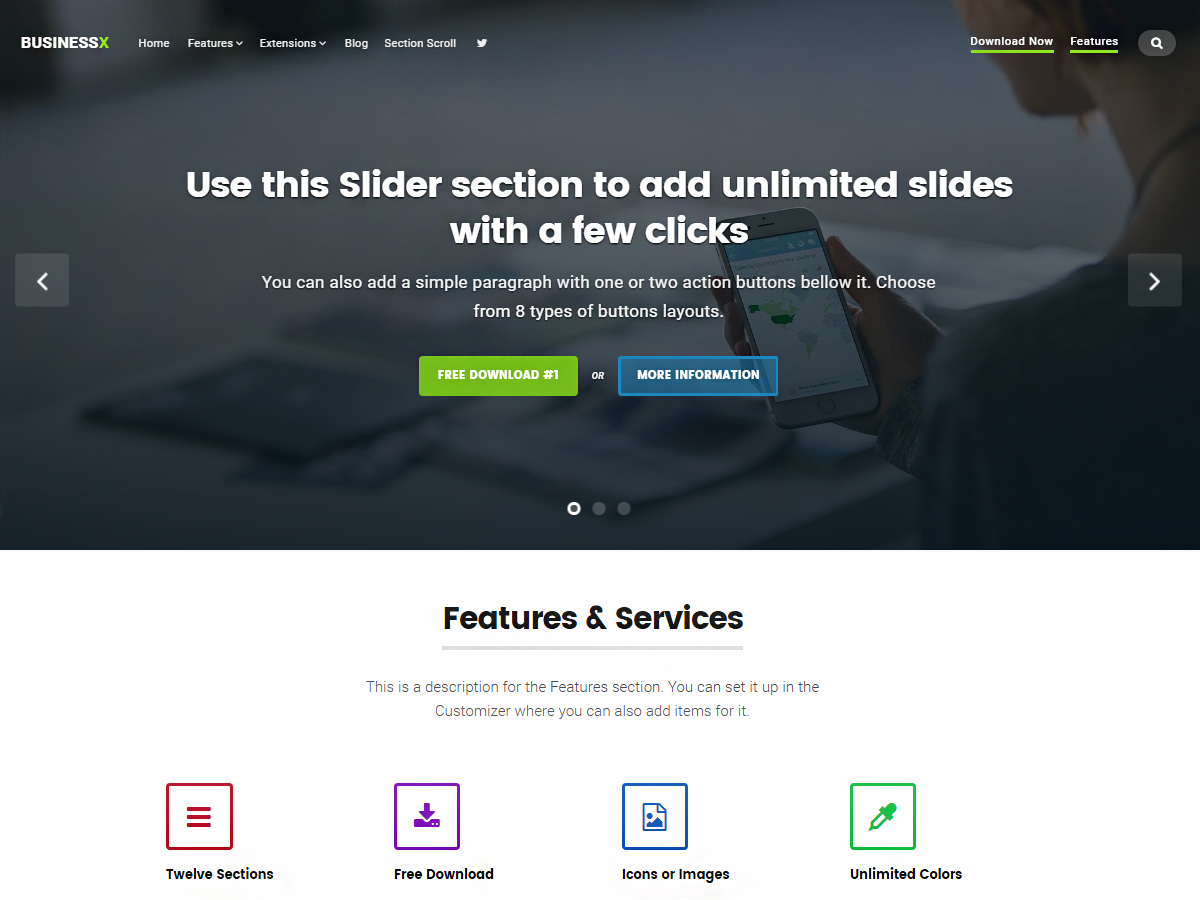
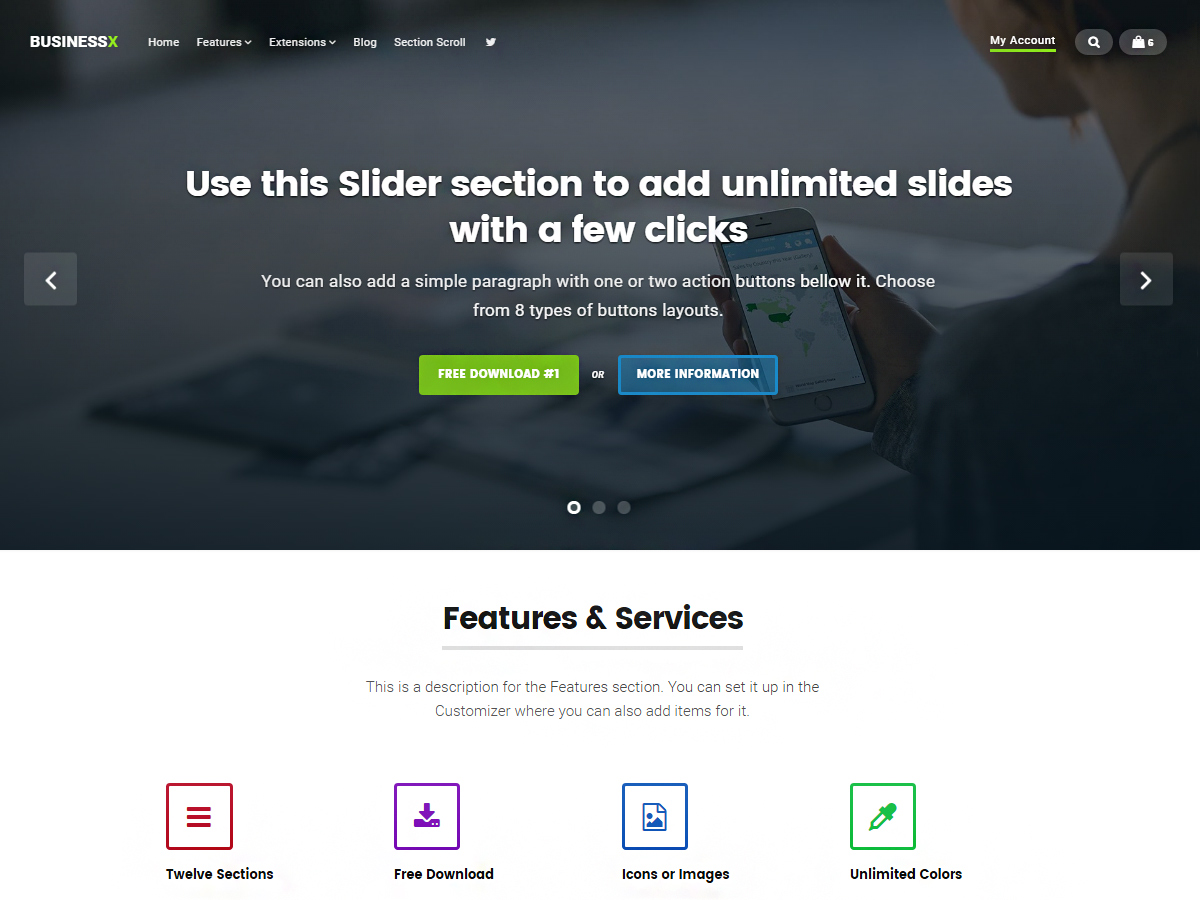
v1.0.5.2 Update
#8

diff --git a/style.css b/style.css
@@ -5,8 +5,8 @@ Theme Name: Businessx
 Theme URI: http://www.acosmin.com/theme/businessx/
 Author: Acosmin
 Author URI: http://www.acosmin.com/
-Description: Businessx is a modern one page WordPress theme, perfect for any business, agency or blog. With the help of the free Businessx Extensions plugin you will be able to add 12 sections (Slider, Features, About Us, Team, Clients, Portfolio, Actions, Testimonials, Pricing, FAQ, Hero, Blog) to your homepage and position them as you want on page. Download this plugin from: https://wordpress.org/plugins/businessx-extensions/ & Full Demo: http://demo.acosmin.com/themes/businessx/
-Version: 1.0.5.1
+Description: Businessx is a modern one page WordPress theme with WooCommerce support, perfect for any business, agency or blog. With the help of the free Businessx Extensions plugin you will be able to add 12 sections (Slider, Features, About Us, Team, Clients, Portfolio, Actions, Testimonials, Pricing, FAQ, Hero, Blog) to your homepage and position them as you want on page. Download this plugin from: https://wordpress.org/plugins/businessx-extensions/ & Full Demo: http://demo.acosmin.com/themes/businessx/
+Version: 1.0.5.2
 License: GNU General Public License version 3
 License URI: http://www.gnu.org/licenses/gpl-3.0.html
 Tags: custom-header, grid-layout, right-sidebar, sticky-post, translation-ready, threaded-comments, featured-images, custom-menu, theme-options, footer-widgets, portfolio, blog, e-commerce

diff --git a/functions.php b/functions.php
@@ -13,7 +13,7 @@
  *  Define some constants
 /* ------------------------------------ */
 if( ! defined( 'BUSINESSX_VERSION' ) ) {
-	define( 'BUSINESSX_VERSION', '1.0.5.1' ); }
+	define( 'BUSINESSX_VERSION', '1.0.5.2' ); }
 
 if( ! defined( 'BUSINESSX_AC_URL' ) ) {
 	define( 'BUSINESSX_AC_URL', '//www.acosmin.com/' ); }

diff --git a/README.md b/README.md
@@ -5,6 +5,7 @@ Businessx is distributed under the terms of the GNU GPL v2.0.
 
 **v1.0.5.2**
 * Added WooCommerce support;
+* Changed screenshot;
 
 **v1.0.5.1**
 * Updated license to GPLv3;
